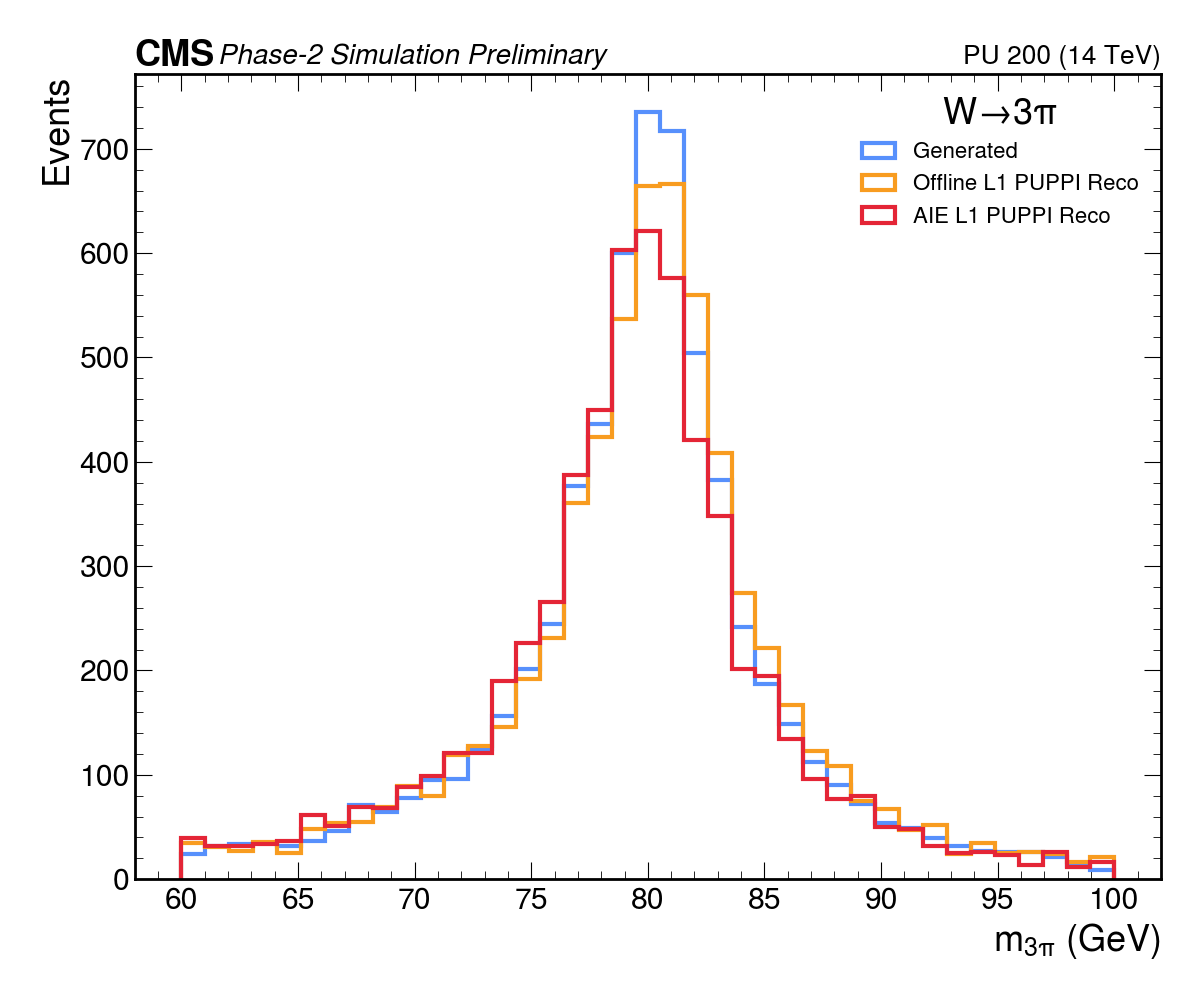
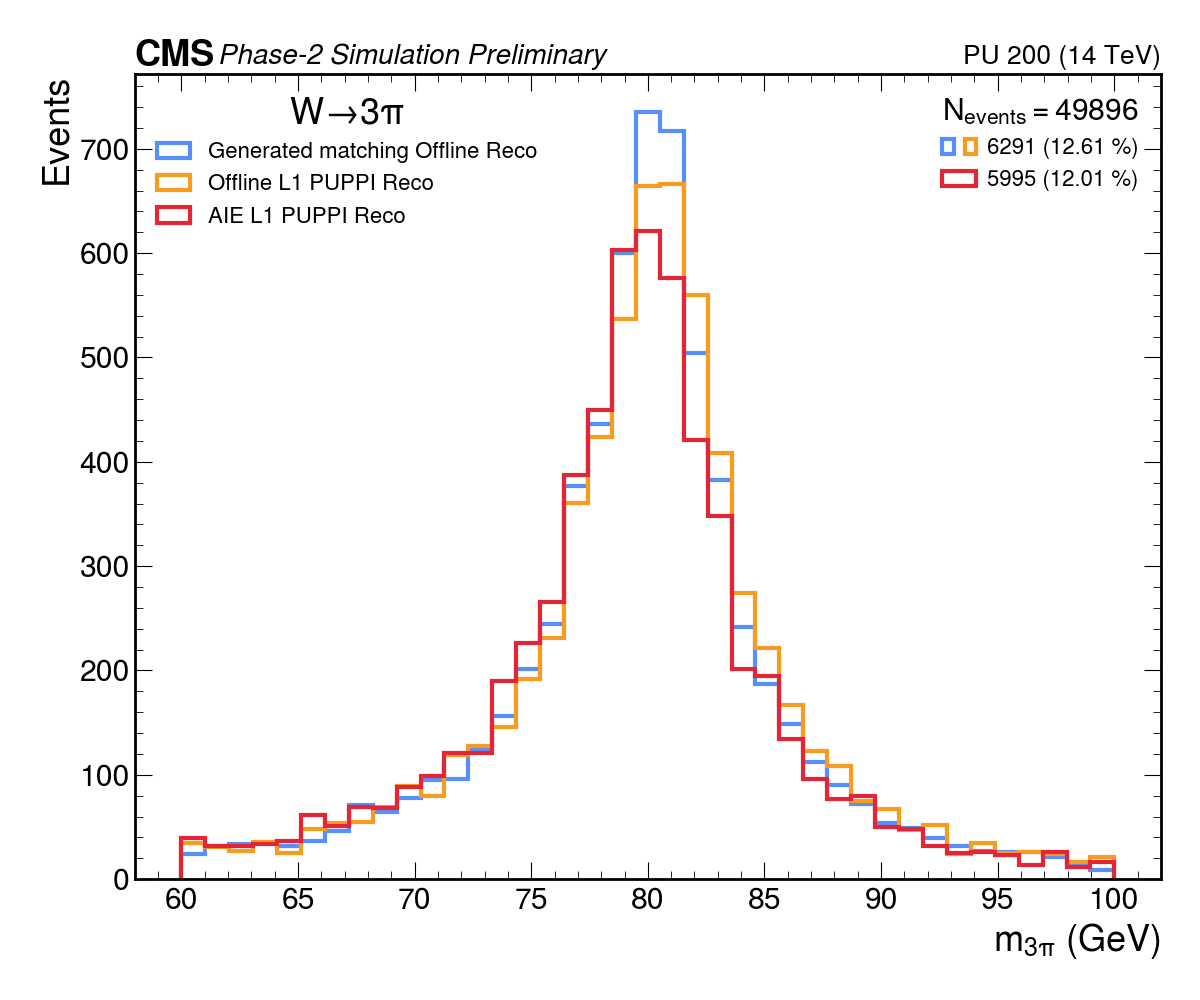
improved histogram

Changed region(s): [[0.7092, 0.093, 0.9558, 0.248], [0.1233, 0.093, 0.4317, 0.248]]

diff --git a/W3Pi_hw_analizer.py b/W3Pi_hw_analizer.py
@@ -2,6 +2,7 @@ import config
 import numpy as np
 import h5py
 import matplotlib.pyplot as plt
+from matplotlib.legend_handler import HandlerTuple
 from tqdm import tqdm
 import mplhep as hep
 
@@ -120,20 +121,47 @@ print(f"Reconstructed events within acceptance: {n_hwreco_acc} ({(n_hwreco_acc /
 print(f"Reconstructed events with a correct good triplet: {n_hwreco_good_matched} ({(n_hwreco_good_matched / num_tot_events) * 100:.2f} % of total, {(n_hwreco_good_matched / n_acc) * 100:.2f} % of acc)")
 
 # retrieve offline selection results
-offreco_good_matched_masses = np.loadtxt(config.RESULTS + "/l1Nano_WTo3Pion_PU200_offreco_fulldata.csv", delimiter=",")
 good_matched_masses_gp = np.loadtxt(config.RESULTS + "/m3pi_gen_values.csv", delimiter=",")
+n_good_matched_masses_gp = len(good_matched_masses_gp)
+
+offreco_good_matched_masses = np.loadtxt(config.RESULTS + "/l1Nano_WTo3Pion_PU200_offreco_fulldata.csv", delimiter=",")
+n_offreco_good_matched = len(offreco_good_matched_masses)
 
 nbins = 40
 binarray = np.linspace(60, 100, nbins, dtype=np.float32)
 
 plt.figure(figsize=(12, 10))
-plt.hist(good_matched_masses_gp, bins=binarray, label="Generated", histtype='step', linestyle="-", lw=3)
-plt.hist(offreco_good_matched_masses, bins=binarray, label="Offline L1 PUPPI Reco", histtype='step', linestyle="-", lw=3)
-plt.hist(hwreco_good_matched_masses, bins=binarray, label="AIE L1 PUPPI Reco", histtype='step', linestyle="-", lw=3)
 hep.cms.label(label="Phase-2 Simulation Preliminary", data=True, rlabel="PU 200 (14 TeV)", fontsize=20);
+n1, bins1, patches1 = plt.hist(good_matched_masses_gp, bins=binarray, label="Generated matching Offline Reco", histtype='step', linestyle="-", lw=3)
+n2, bins2, patches2 = plt.hist(offreco_good_matched_masses, bins=binarray, label="Offline L1 PUPPI Reco", histtype='step', linestyle="-", lw=3)
+n3, bins3, patches3 = plt.hist(hwreco_good_matched_masses, bins=binarray, label="AIE L1 PUPPI Reco", histtype='step', linestyle="-", lw=3)
 plt.xlabel(r"$m_{3\pi}$ (GeV)")
 plt.ylabel(f"Events")
-plt.legend(fontsize="16", title=r"$W\to3\pi$")
+
+ax = plt.gca()
+
+# main legend
+main_legend = ax.legend(title=r"$W\to3\pi$", loc="upper left", fontsize=16)
+
+# side legend
+side_labels = [
+    f"{n_offreco_good_matched} ({(n_offreco_good_matched / num_tot_events) * 100:.2f} %)",
+    f"{n_hwreco_good_matched} ({(n_hwreco_good_matched / num_tot_events) * 100:.2f} %)"    
+]
+side_handles = [(patches1[0], patches2[0]), patches3[0]]
+side_legend = ax.legend(handles=side_handles,\
+                        labels=side_labels,\
+                        handler_map={tuple: HandlerTuple(ndivide=None)},\
+                        title=r"$N_{events}=$" + f"{num_tot_events}",\
+                        title_fontsize="small",\
+                        loc="upper right",\
+                        columnspacing=0.5,\
+                        handletextpad=0.5,\
+                        fontsize=16)
+
+# force displaying the main legend
+ax.add_artist(main_legend)
+
 plt.tight_layout()
 plt.savefig(config.FIGURES + "/hist.png")
 

diff --git a/hls/mm2s/src/mm2s.cpp b/hls/mm2s/src/mm2s.cpp
@@ -9,7 +9,7 @@ void mm2s(ap_int<64 * BLOCK_SIZE>* mem, hls::stream<qdma_axis<32,0,0,0>>& s0, hl
 	#pragma HLS INTERFACE axis port=s1
 
 	#pragma HLS INTERFACE s_axilite port=mem bundle=control
-	#pragma HLS interface s_axilite port=return bundle=control
+	#pragma HLS INTERFACE s_axilite port=return bundle=control
 	
 	ap_uint<32> mem_offset = 0;
 
